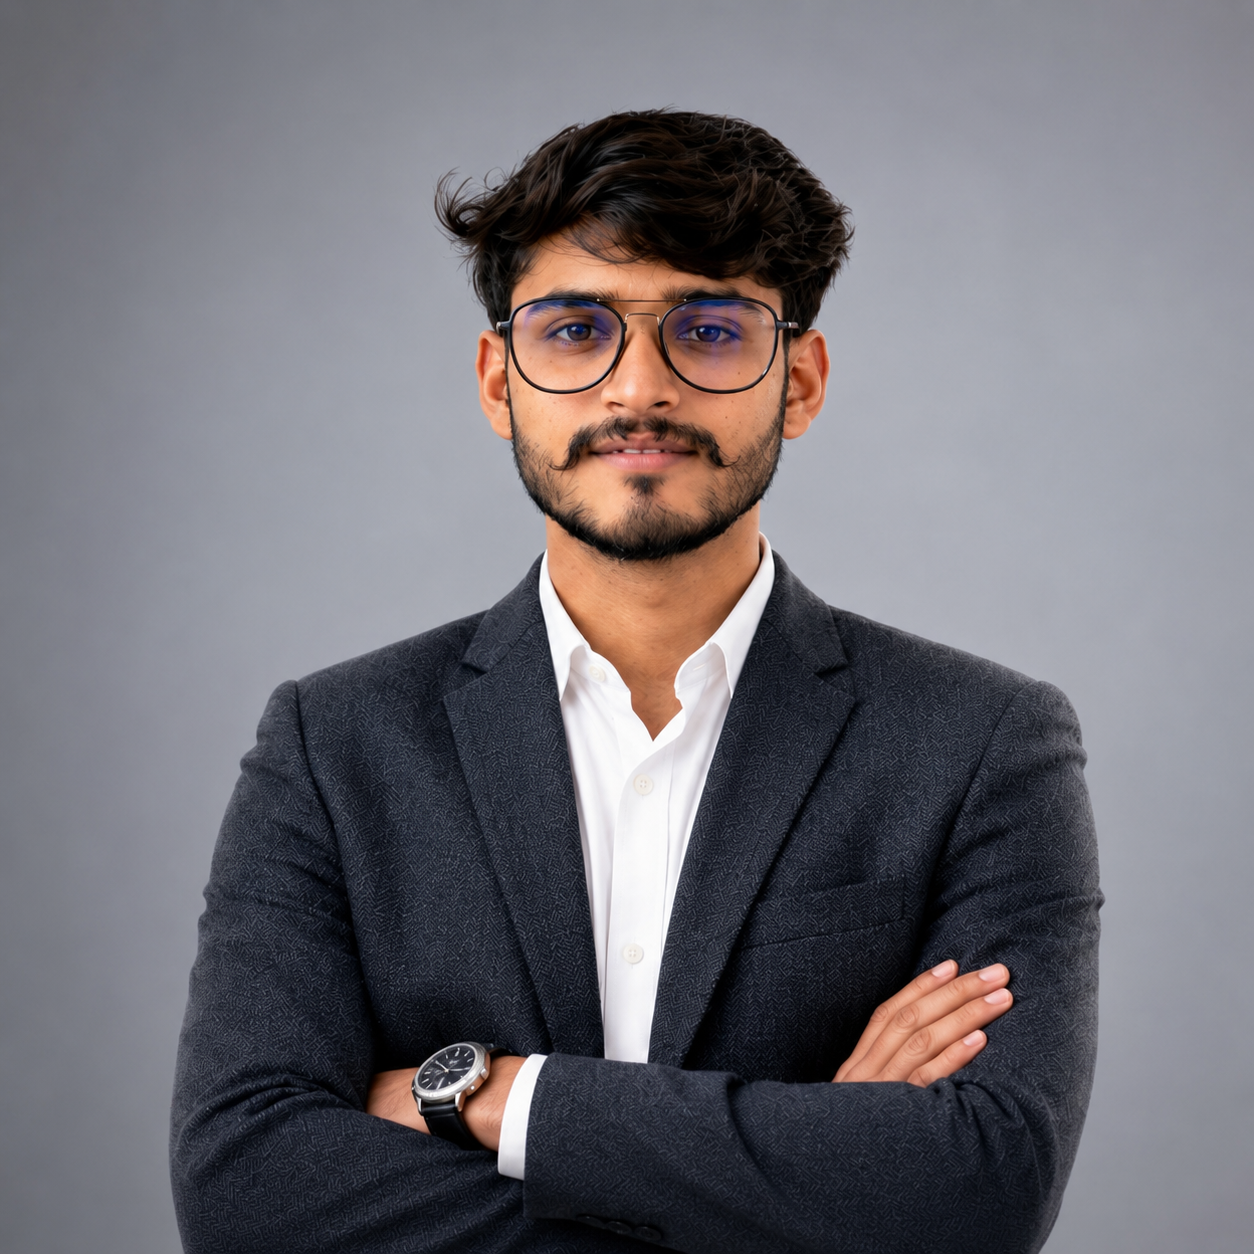
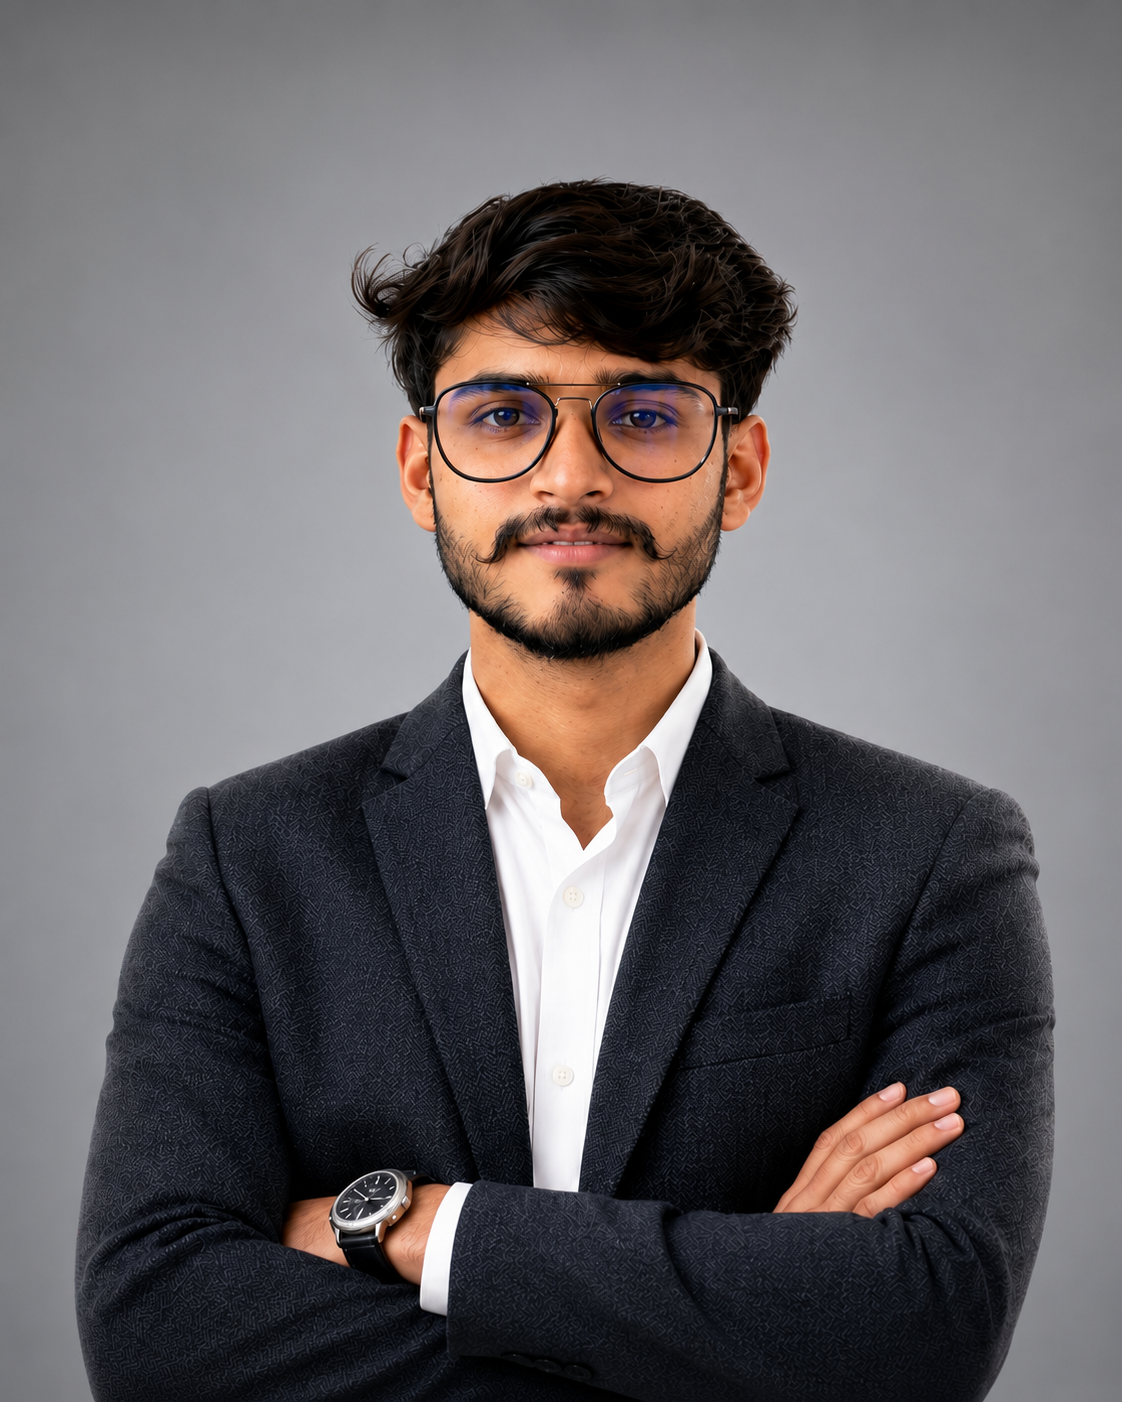
Update Samarth Choudhar photo

diff --git a/about.html b/about.html
@@ -59,7 +59,7 @@
     <div class="container fade-in">
       <div class="leaders-grid">
         <div class="leader-card">
-          <img src="assets/images/samarth.png" alt="Samarth Choudhar" class="leader-img">
+          <img src="assets/images/samarth.png?v=2" alt="Samarth Choudhar" class="leader-img">
           <div class="leader-info-overlay">
             <h3 class="leader-name">Samarth Choudhar</h3>
             <p class="leader-title">Founder & COO</p>

diff --git a/index.html b/index.html
@@ -213,7 +213,7 @@
       <h2 class="section-headline reveal" style="text-align: center; margin-bottom: 40px;">Our Leadership</h2>
       <div class="leaders-carousel reveal">
         <div class="leader-card">
-          <img src="assets/images/samarth.png" alt="Samarth Choudhar" class="leader-img">
+          <img src="assets/images/samarth.png?v=2" alt="Samarth Choudhar" class="leader-img">
           <div class="leader-info-overlay">
             <h3 class="leader-name">Samarth Choudhar</h3>
             <p class="leader-title">Founder & COO</p>